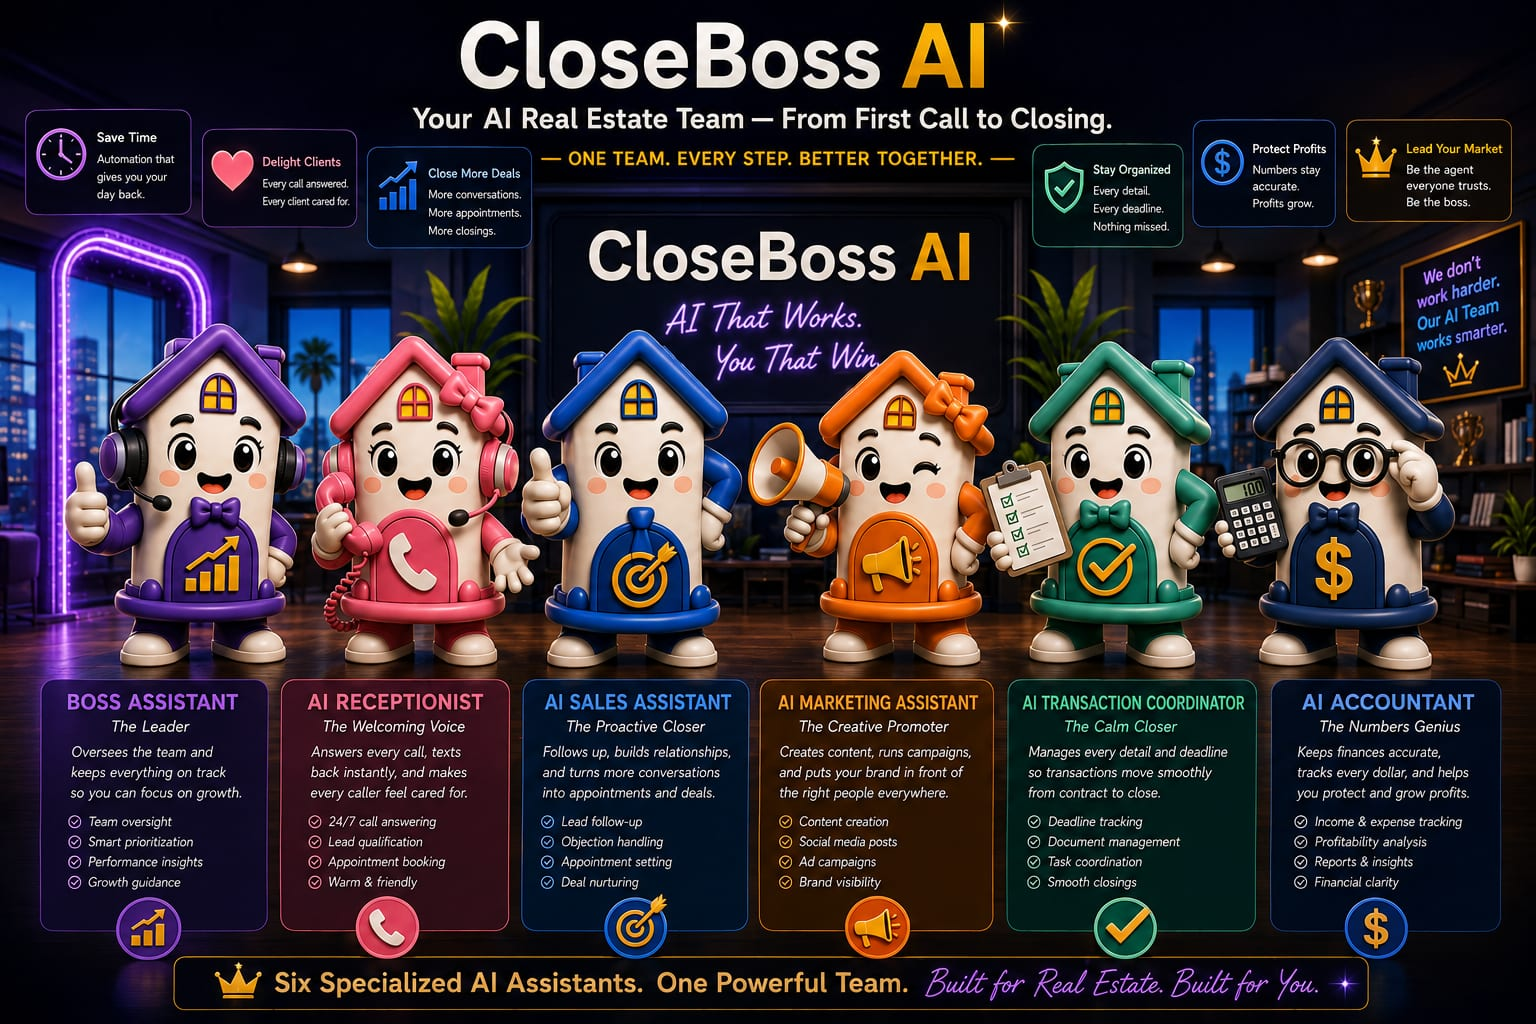
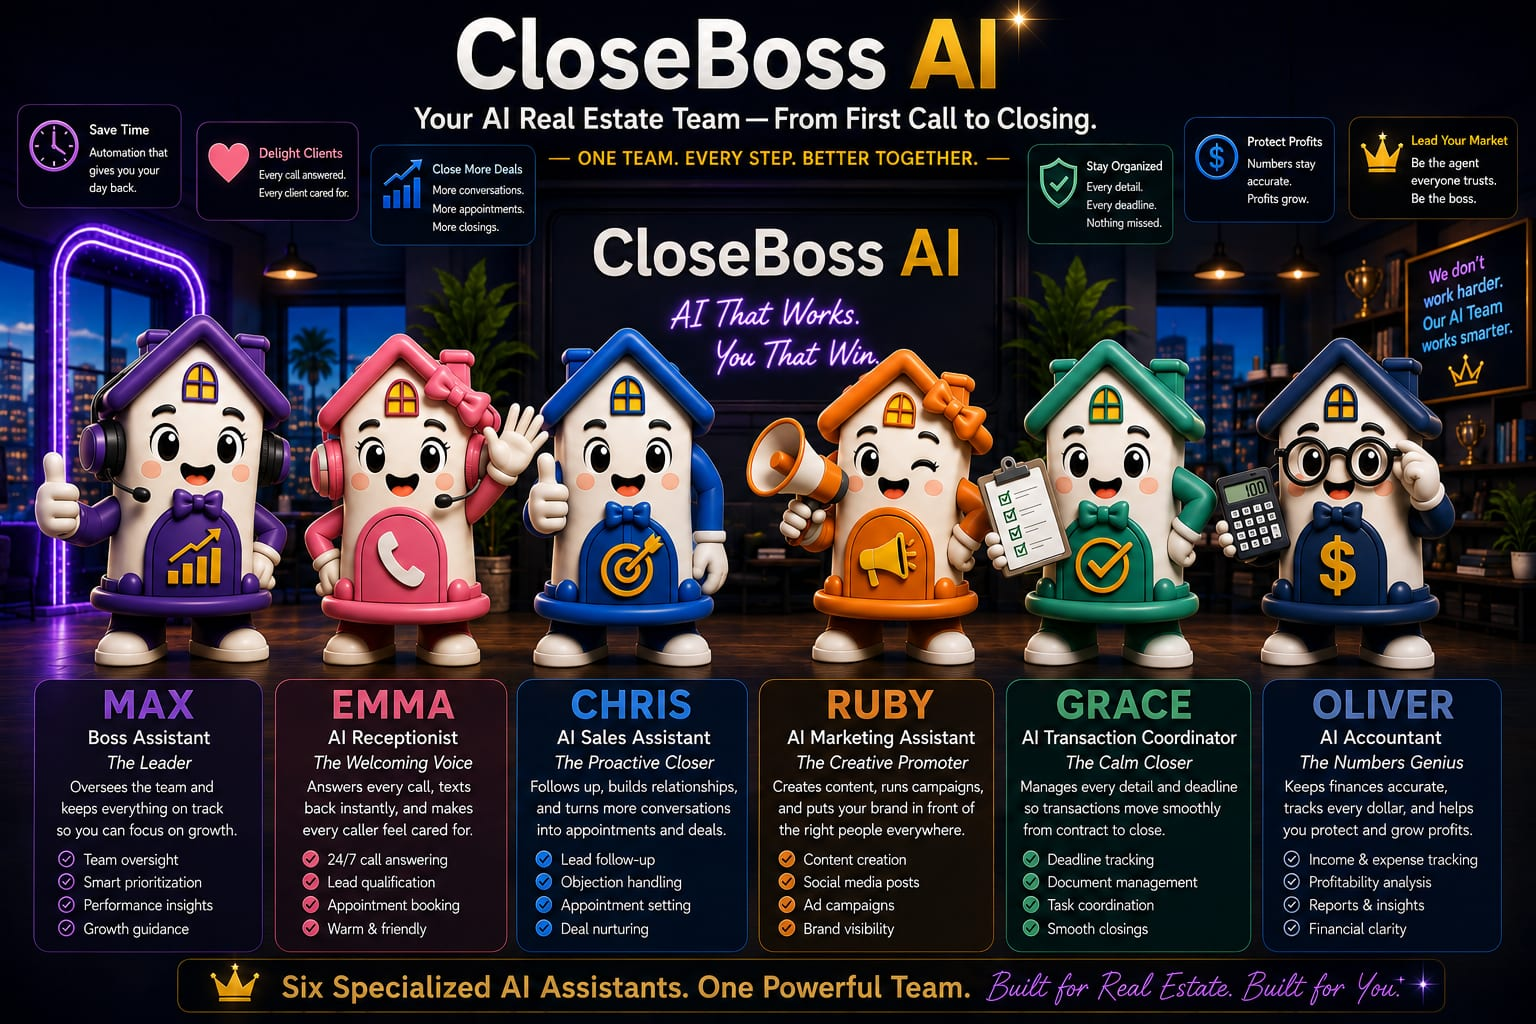
feat(ai-team): rename Sales Assistant persona Jake -> Chris
Matches the updated team artwork (which now labels the sales mascot "Chris").

- Roster displayName Jake -> Chris (the single source of truth for the name).
- Portrait id/file renamed jake -> chris (same blue mascot); PERSONA_AVATARS +
  the sales default point at it.
- Landing "Meet your AI team" card updated to Chris.
- Refreshed the team lineup image (/brand/realtyboss/ai-team.jpg) to the new
  named version.
- Migration repoints existing un-customized sales rows avatar_id jake -> chris.

diff --git a/apps/leadsmartai/components/marketing/LeadSmartLandingV2.tsx b/apps/leadsmartai/components/marketing/LeadSmartLandingV2.tsx
@@ -103,7 +103,7 @@ const BUY_FASTER = ["auto_criteria", "ai_machine"] as const;
 const AI_TEAM_MEMBERS = [
   { id: "max", name: "Max", role: "Boss Assistant", color: "#6C5BD0", line: "Runs the team and keeps you focused on what matters most today." },
   { id: "emma", name: "Emma", role: "AI Receptionist", color: "#E86FA6", line: "Answers every call and text — instantly, day or night." },
-  { id: "jake", name: "Jake", role: "AI Sales Assistant", color: "#2F6FE0", line: "Follows up relentlessly and turns leads into booked appointments." },
+  { id: "chris", name: "Chris", role: "AI Sales Assistant", color: "#2F6FE0", line: "Follows up relentlessly and turns leads into booked appointments." },
   { id: "ruby", name: "Ruby", role: "AI Marketing Assistant", color: "#E68A2E", line: "Creates content and campaigns that keep your pipeline full." },
   { id: "grace", name: "Grace", role: "AI Transaction Coordinator", color: "#2E9E6B", line: "Tracks every deadline so deals move smoothly to the closing table." },
   { id: "oliver", name: "Oliver", role: "AI Accountant", color: "#3A6E8F", line: "Watches every dollar and keeps your commissions and books straight." },

diff --git a/apps/leadsmartai/lib/realtyboss/avatars.ts b/apps/leadsmartai/lib/realtyboss/avatars.ts
@@ -15,7 +15,7 @@ import type { AssistantType } from "@/lib/realtyboss/team";
 export const PERSONA_AVATARS = [
   "max",
   "emma",
-  "jake",
+  "chris",
   "ruby",
   "grace",
   "oliver",
@@ -53,7 +53,7 @@ export function defaultAvatarForSeed(seed: string): string {
 export const DEFAULT_ASSISTANT_AVATARS: Record<AssistantType, string> = {
   boss_assistant: "max", // purple — growth chart
   receptionist: "emma", // pink — headset
-  sales_assistant: "jake", // blue — target
+  sales_assistant: "chris", // blue — target
   marketing_assistant: "ruby", // orange — megaphone
   transaction_assistant: "grace", // teal — checklist
   accountant: "oliver", // navy — calculator

diff --git a/industry-packs/real-estate/src/realtyboss/team.ts b/industry-packs/real-estate/src/realtyboss/team.ts
@@ -69,7 +69,7 @@ export const AI_TEAM: readonly AssistantDef[] = [
   },
   {
     type: "sales_assistant",
-    displayName: "Jake",
+    displayName: "Chris",
     name: "AI Sales Assistant",
     personality: "Confident, persuasive, follows up relentlessly.",
     role: "Outbound lead conversion",
